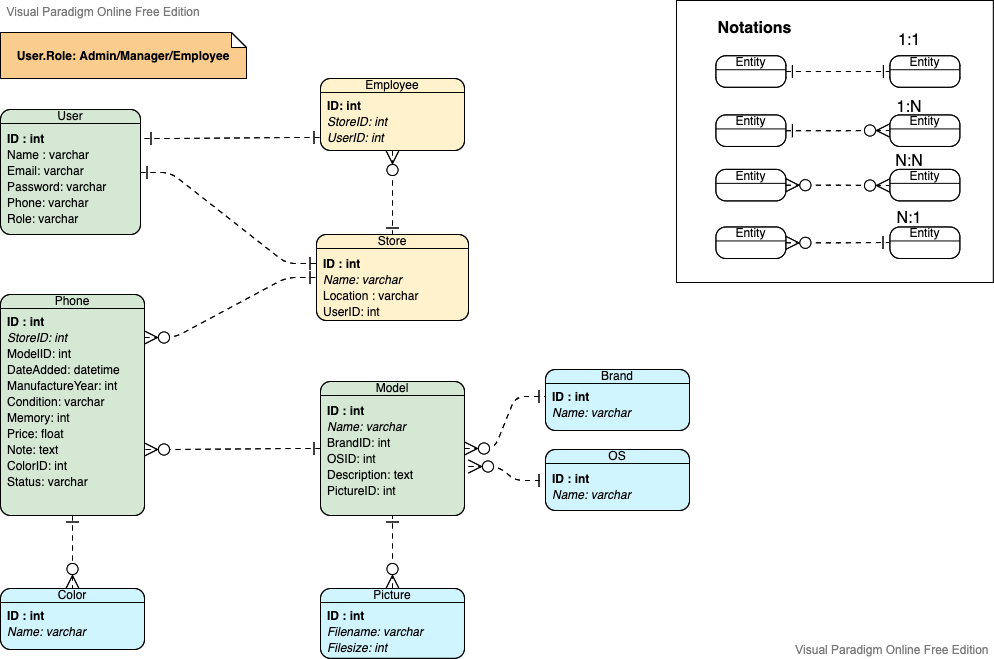
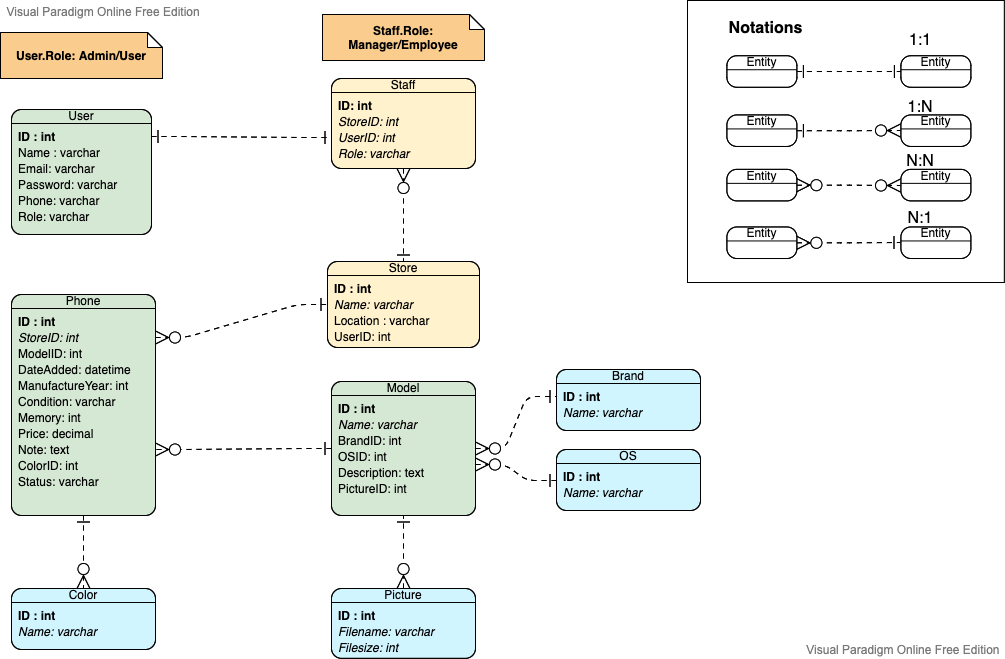
Update the User role's relation/structure - Current new approach is splitting the access role (admin/normal user) and the business role (employee/manager) - The current approach is:     - More readable, has more scalability     - Clear separation between application/business     - Reduces one connec

diff --git a/db/schema.rb b/db/schema.rb
@@ -10,125 +10,123 @@
 #
 # It's strongly recommended that you check this file into your version control system.
 
-ActiveRecord::Schema.define(version: 2021_07_06_084905) do
-
-  create_table "active_storage_attachments", charset: "utf8mb4", force: :cascade do |t|
-    t.string "name", null: false
-    t.string "record_type", null: false
-    t.bigint "record_id", null: false
-    t.bigint "blob_id", null: false
-    t.datetime "created_at", null: false
-    t.index ["blob_id"], name: "index_active_storage_attachments_on_blob_id"
-    t.index ["record_type", "record_id", "name", "blob_id"], name: "index_active_storage_attachments_uniqueness", unique: true
+ActiveRecord::Schema.define(version: 20_210_706_084_905) do
+  create_table 'active_storage_attachments', charset: 'utf8mb4', force: :cascade do |t|
+    t.string 'name', null: false
+    t.string 'record_type', null: false
+    t.bigint 'record_id', null: false
+    t.bigint 'blob_id', null: false
+    t.datetime 'created_at', null: false
+    t.index ['blob_id'], name: 'index_active_storage_attachments_on_blob_id'
+    t.index %w[record_type record_id name blob_id], name: 'index_active_storage_attachments_uniqueness',
+                                                    unique: true
   end
 
-  create_table "active_storage_blobs", charset: "utf8mb4", force: :cascade do |t|
-    t.string "key", null: false
-    t.string "filename", null: false
-    t.string "content_type"
-    t.text "metadata"
-    t.string "service_name", null: false
-    t.bigint "byte_size", null: false
-    t.string "checksum", null: false
-    t.datetime "created_at", null: false
-    t.index ["key"], name: "index_active_storage_blobs_on_key", unique: true
+  create_table 'active_storage_blobs', charset: 'utf8mb4', force: :cascade do |t|
+    t.string 'key', null: false
+    t.string 'filename', null: false
+    t.string 'content_type'
+    t.text 'metadata'
+    t.string 'service_name', null: false
+    t.bigint 'byte_size', null: false
+    t.string 'checksum', null: false
+    t.datetime 'created_at', null: false
+    t.index ['key'], name: 'index_active_storage_blobs_on_key', unique: true
   end
 
-  create_table "active_storage_variant_records", charset: "utf8mb4", force: :cascade do |t|
-    t.bigint "blob_id", null: false
-    t.string "variation_digest", null: false
-    t.index ["blob_id", "variation_digest"], name: "index_active_storage_variant_records_uniqueness", unique: true
+  create_table 'active_storage_variant_records', charset: 'utf8mb4', force: :cascade do |t|
+    t.bigint 'blob_id', null: false
+    t.string 'variation_digest', null: false
+    t.index %w[blob_id variation_digest], name: 'index_active_storage_variant_records_uniqueness', unique: true
   end
 
-  create_table "brands", charset: "utf8mb4", force: :cascade do |t|
-    t.string "name", null: false
-    t.datetime "created_at", precision: 6, null: false
-    t.datetime "updated_at", precision: 6, null: false
-    t.index ["name"], name: "index_brands_on_name", unique: true
+  create_table 'brands', charset: 'utf8mb4', force: :cascade do |t|
+    t.string 'name', null: false
+    t.datetime 'created_at', precision: 6, null: false
+    t.datetime 'updated_at', precision: 6, null: false
+    t.index ['name'], name: 'index_brands_on_name', unique: true
   end
 
-  create_table "colors", charset: "utf8mb4", force: :cascade do |t|
-    t.string "name", null: false
-    t.datetime "created_at", precision: 6, null: false
-    t.datetime "updated_at", precision: 6, null: false
-    t.index ["name"], name: "index_colors_on_name", unique: true
+  create_table 'colors', charset: 'utf8mb4', force: :cascade do |t|
+    t.string 'name', null: false
+    t.datetime 'created_at', precision: 6, null: false
+    t.datetime 'updated_at', precision: 6, null: false
+    t.index ['name'], name: 'index_colors_on_name', unique: true
   end
 
-  create_table "employees", charset: "utf8mb4", force: :cascade do |t|
-    t.datetime "created_at", precision: 6, null: false
-    t.datetime "updated_at", precision: 6, null: false
-    t.bigint "user_id", null: false
-    t.bigint "store_id", null: false
-    t.index ["store_id"], name: "index_employees_on_store_id"
-    t.index ["user_id"], name: "index_employees_on_user_id", unique: true
+  create_table 'models', charset: 'utf8mb4', force: :cascade do |t|
+    t.string 'name', null: false
+    t.text 'description'
+    t.datetime 'created_at', precision: 6, null: false
+    t.datetime 'updated_at', precision: 6, null: false
+    t.bigint 'operating_system_id', null: false
+    t.bigint 'brand_id', null: false
+    t.index ['brand_id'], name: 'index_models_on_brand_id'
+    t.index ['name'], name: 'index_models_on_name', unique: true
+    t.index ['operating_system_id'], name: 'index_models_on_operating_system_id'
   end
 
-  create_table "models", charset: "utf8mb4", force: :cascade do |t|
-    t.string "name", null: false
-    t.text "description"
-    t.datetime "created_at", precision: 6, null: false
-    t.datetime "updated_at", precision: 6, null: false
-    t.bigint "operating_system_id", null: false
-    t.bigint "brand_id", null: false
-    t.index ["brand_id"], name: "index_models_on_brand_id"
-    t.index ["name"], name: "index_models_on_name", unique: true
-    t.index ["operating_system_id"], name: "index_models_on_operating_system_id"
+  create_table 'operating_systems', charset: 'utf8mb4', force: :cascade do |t|
+    t.string 'name', null: false
+    t.datetime 'created_at', precision: 6, null: false
+    t.datetime 'updated_at', precision: 6, null: false
+    t.index ['name'], name: 'index_operating_systems_on_name', unique: true
   end
 
-  create_table "operating_systems", charset: "utf8mb4", force: :cascade do |t|
-    t.string "name", null: false
-    t.datetime "created_at", precision: 6, null: false
-    t.datetime "updated_at", precision: 6, null: false
-    t.index ["name"], name: "index_operating_systems_on_name", unique: true
+  create_table 'phones', charset: 'utf8mb4', force: :cascade do |t|
+    t.integer 'manufacture_year', null: false
+    t.string 'condition', null: false
+    t.integer 'memory', null: false
+    t.decimal 'price', precision: 10, null: false
+    t.text 'note'
+    t.string 'status', default: 'in_stock', null: false
+    t.datetime 'created_at', precision: 6, null: false
+    t.datetime 'updated_at', precision: 6, null: false
+    t.bigint 'model_id', null: false
+    t.bigint 'store_id', null: false
+    t.bigint 'color_id', null: false
+    t.index ['color_id'], name: 'index_phones_on_color_id'
+    t.index ['model_id'], name: 'index_phones_on_model_id'
+    t.index ['store_id'], name: 'index_phones_on_store_id'
   end
 
-  create_table "phones", charset: "utf8mb4", force: :cascade do |t|
-    t.integer "manufacture_year", null: false
-    t.string "condition", null: false
-    t.integer "memory", null: false
-    t.float "price", null: false
-    t.text "note"
-    t.string "status", default: "in_stock", null: false
-    t.datetime "created_at", precision: 6, null: false
-    t.datetime "updated_at", precision: 6, null: false
-    t.bigint "model_id", null: false
-    t.bigint "store_id", null: false
-    t.bigint "color_id", null: false
-    t.index ["color_id"], name: "index_phones_on_color_id"
-    t.index ["model_id"], name: "index_phones_on_model_id"
-    t.index ["store_id"], name: "index_phones_on_store_id"
+  create_table 'staffs', charset: 'utf8mb4', force: :cascade do |t|
+    t.datetime 'created_at', precision: 6, null: false
+    t.datetime 'updated_at', precision: 6, null: false
+    t.string 'role', default: 'staff'
+    t.bigint 'user_id', null: false
+    t.bigint 'store_id', null: false
+    t.index ['store_id'], name: 'index_staffs_on_store_id'
+    t.index ['user_id'], name: 'index_staffs_on_user_id', unique: true
   end
 
-  create_table "stores", charset: "utf8mb4", force: :cascade do |t|
-    t.string "name", null: false
-    t.string "location"
-    t.bigint "user_id", null: false
-    t.datetime "created_at", precision: 6, null: false
-    t.datetime "updated_at", precision: 6, null: false
-    t.index ["name"], name: "index_stores_on_name", unique: true
-    t.index ["user_id"], name: "index_stores_on_user_id", unique: true
+  create_table 'stores', charset: 'utf8mb4', force: :cascade do |t|
+    t.string 'name', null: false
+    t.string 'location'
+    t.datetime 'created_at', precision: 6, null: false
+    t.datetime 'updated_at', precision: 6, null: false
+    t.index ['name'], name: 'index_stores_on_name', unique: true
   end
 
-  create_table "users", charset: "utf8mb4", force: :cascade do |t|
-    t.string "email", default: "", null: false
-    t.string "encrypted_password", default: "", null: false
-    t.datetime "remember_created_at"
-    t.datetime "created_at", precision: 6, null: false
-    t.datetime "updated_at", precision: 6, null: false
-    t.string "name", null: false
-    t.string "phone"
-    t.string "role", default: "admin", null: false
-    t.index ["email"], name: "index_users_on_email", unique: true
+  create_table 'users', charset: 'utf8mb4', force: :cascade do |t|
+    t.string 'email', default: '', null: false
+    t.string 'encrypted_password', default: '', null: false
+    t.datetime 'remember_created_at'
+    t.datetime 'created_at', precision: 6, null: false
+    t.datetime 'updated_at', precision: 6, null: false
+    t.string 'name', null: false
+    t.string 'phone'
+    t.string 'role', default: 'admin', null: false
+    t.index ['email'], name: 'index_users_on_email', unique: true
   end
 
-  add_foreign_key "active_storage_attachments", "active_storage_blobs", column: "blob_id"
-  add_foreign_key "active_storage_variant_records", "active_storage_blobs", column: "blob_id"
-  add_foreign_key "employees", "stores"
-  add_foreign_key "employees", "users"
-  add_foreign_key "models", "brands"
-  add_foreign_key "models", "operating_systems"
-  add_foreign_key "phones", "colors"
-  add_foreign_key "phones", "models"
-  add_foreign_key "phones", "stores"
-  add_foreign_key "stores", "users"
+  add_foreign_key 'active_storage_attachments', 'active_storage_blobs', column: 'blob_id'
+  add_foreign_key 'active_storage_variant_records', 'active_storage_blobs', column: 'blob_id'
+  add_foreign_key 'models', 'brands'
+  add_foreign_key 'models', 'operating_systems'
+  add_foreign_key 'phones', 'colors'
+  add_foreign_key 'phones', 'models'
+  add_foreign_key 'phones', 'stores'
+  add_foreign_key 'staffs', 'stores'
+  add_foreign_key 'staffs', 'users'
 end

diff --git a/db/migrate/20210706084905_create_active_storage_tables.active_storage.rb b/db/migrate/20210706084905_create_active_storage_tables.active_storage.rb
@@ -11,7 +11,7 @@ class CreateActiveStorageTables < ActiveRecord::Migration[5.2]
       t.string   :checksum,     null: false
       t.datetime :created_at,   null: false
 
-      t.index [ :key ], unique: true
+      t.index [:key], unique: true
     end
 
     create_table :active_storage_attachments do |t|
@@ -21,7 +21,8 @@ class CreateActiveStorageTables < ActiveRecord::Migration[5.2]
 
       t.datetime :created_at, null: false
 
-      t.index [ :record_type, :record_id, :name, :blob_id ], name: "index_active_storage_attachments_uniqueness", unique: true
+      t.index %i[record_type record_id name blob_id], name: 'index_active_storage_attachments_uniqueness',
+                                                      unique: true
       t.foreign_key :active_storage_blobs, column: :blob_id
     end
 
@@ -29,7 +30,7 @@ class CreateActiveStorageTables < ActiveRecord::Migration[5.2]
       t.belongs_to :blob, null: false, index: false
       t.string :variation_digest, null: false
 
-      t.index %i[ blob_id variation_digest ], name: "index_active_storage_variant_records_uniqueness", unique: true
+      t.index %i[blob_id variation_digest], name: 'index_active_storage_variant_records_uniqueness', unique: true
       t.foreign_key :active_storage_blobs, column: :blob_id
     end
   end

diff --git a/db/migrate/20210706064506_create_staffs.rb b/db/migrate/20210706064506_create_staffs.rb
@@ -1,7 +1,8 @@
-class CreateEmployees < ActiveRecord::Migration[6.1]
+class CreateStaffs < ActiveRecord::Migration[6.1]
   def change
-    create_table :employees do |t|
+    create_table :staffs do |t|
       t.timestamps
+      t.string :role, default: 'staff' # staff or manager
       t.belongs_to :user, index: { unique: true }, null: false, foreign_key: true
       t.belongs_to :store, null: false, foreign_key: true
     end

diff --git a/db/migrate/20210706080801_create_phones.rb b/db/migrate/20210706080801_create_phones.rb
@@ -4,7 +4,7 @@ class CreatePhones < ActiveRecord::Migration[6.1]
       t.integer :manufacture_year, null: false
       t.string :condition, null: false
       t.integer :memory, null: false
-      t.float :price, null: false
+      t.decimal :price, null: false
       t.text :note
       t.string :status, null: false, default: 'in_stock'
       t.timestamps

diff --git a/db/migrate/20210706063847_devise_create_users.rb b/db/migrate/20210706063847_devise_create_users.rb
@@ -11,7 +11,7 @@ class DeviseCreateUsers < ActiveRecord::Migration[6.1]
       t.timestamps null: false
       t.string :name, null: false
       t.string :phone
-      t.string :role, null: false, default: 'admin'
+      t.string :role, null: false, default: 'admin' # admin or user!
     end
 
     add_index :users, :email, unique: true

diff --git a/db/migrate/20210706064358_create_stores.rb b/db/migrate/20210706064358_create_stores.rb
@@ -3,7 +3,6 @@ class CreateStores < ActiveRecord::Migration[6.1]
     create_table :stores do |t|
       t.string :name, null: false, index: { unique: true }
       t.string :location
-      t.belongs_to :user, index: { unique: true }, null: false, foreign_key: true
       t.timestamps
     end
   end
